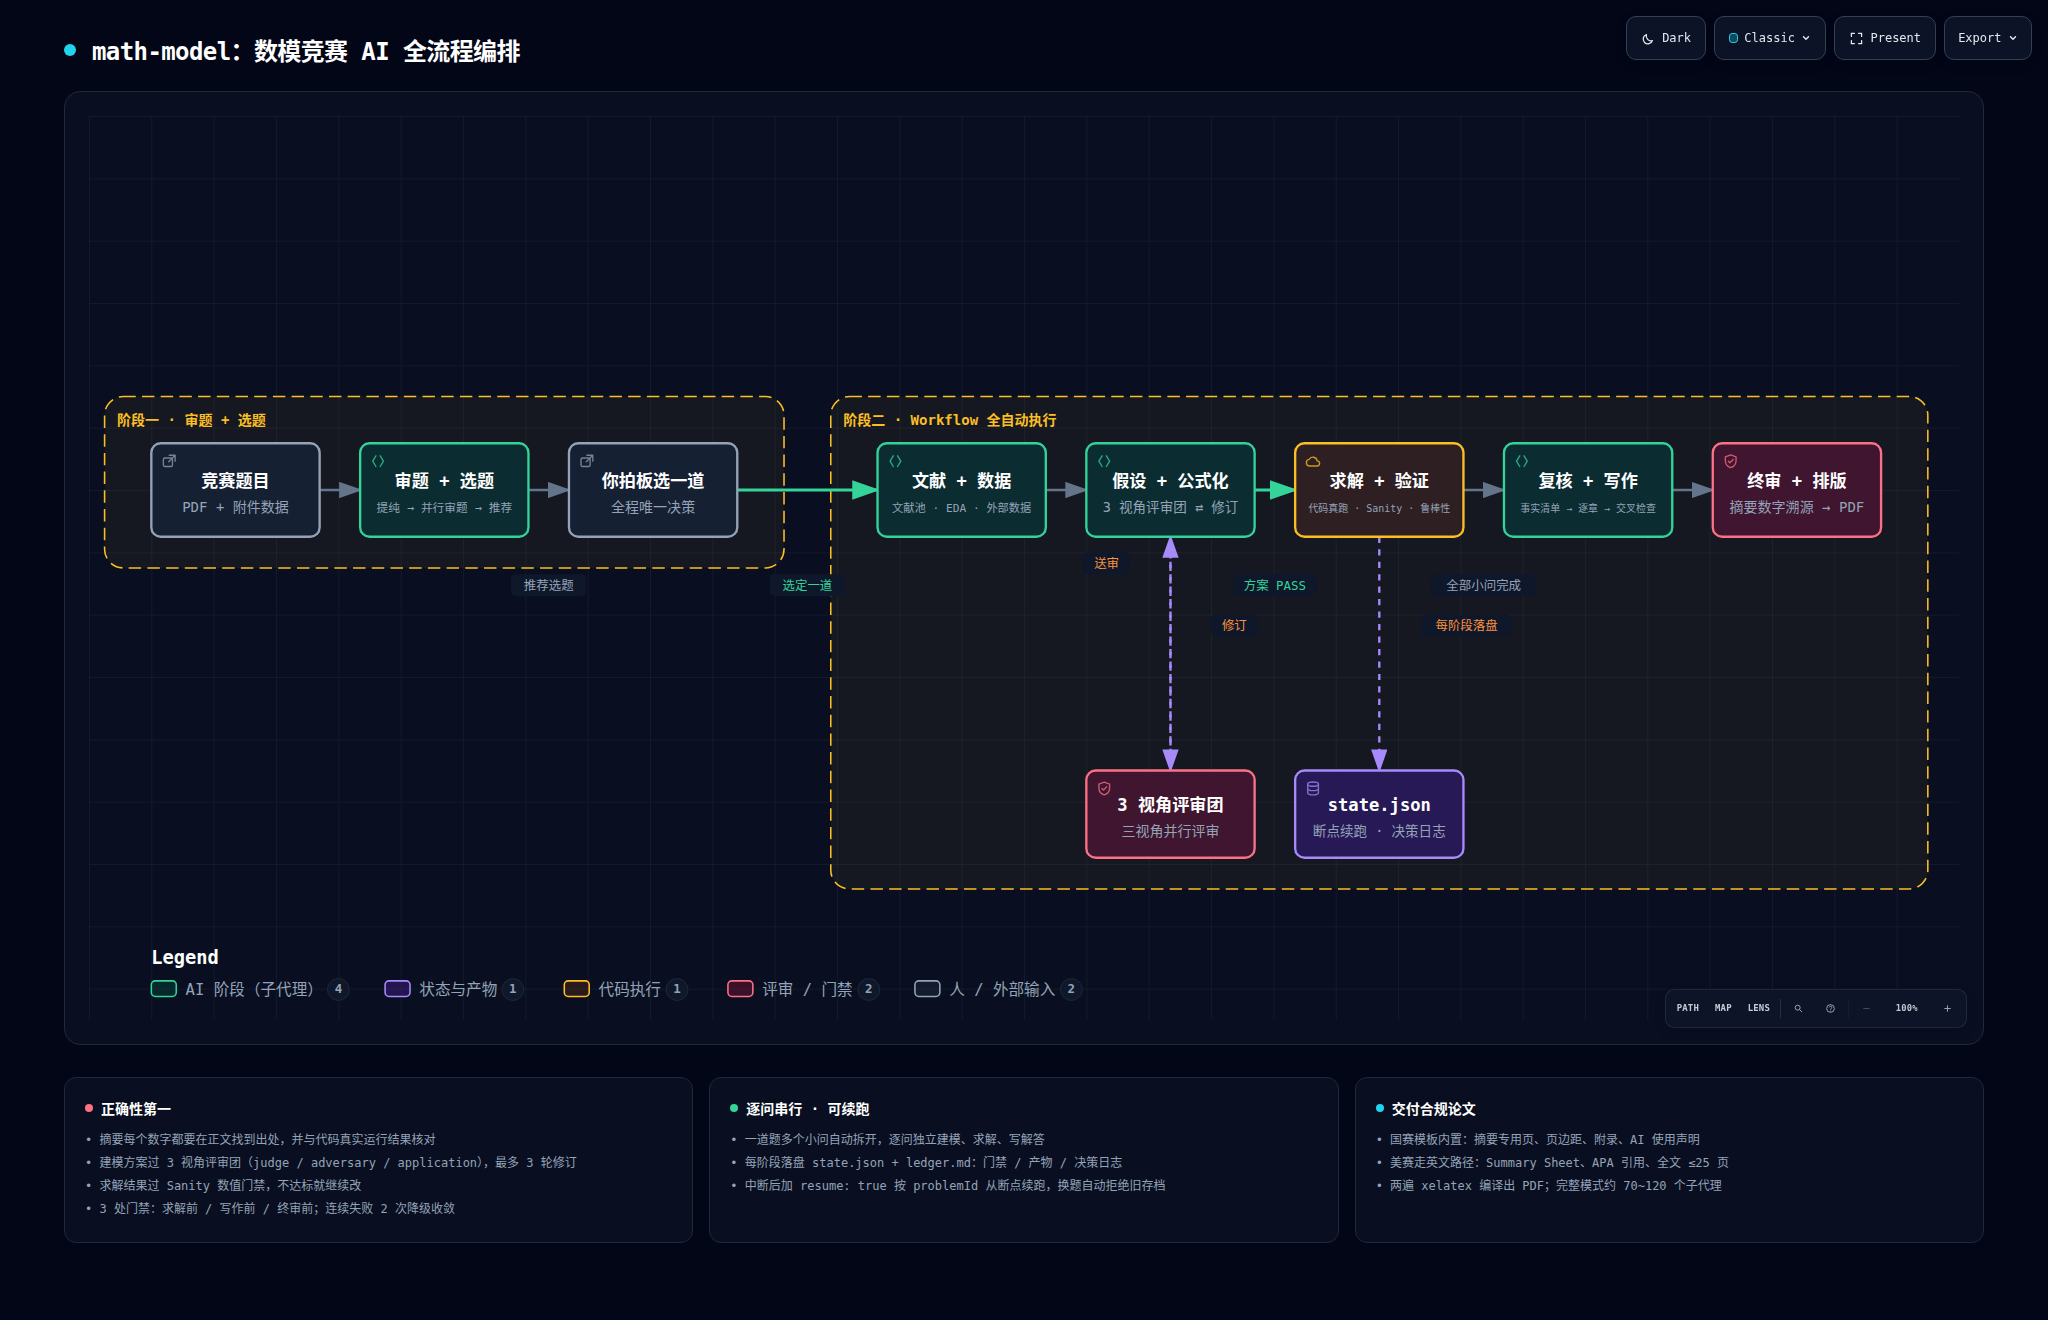
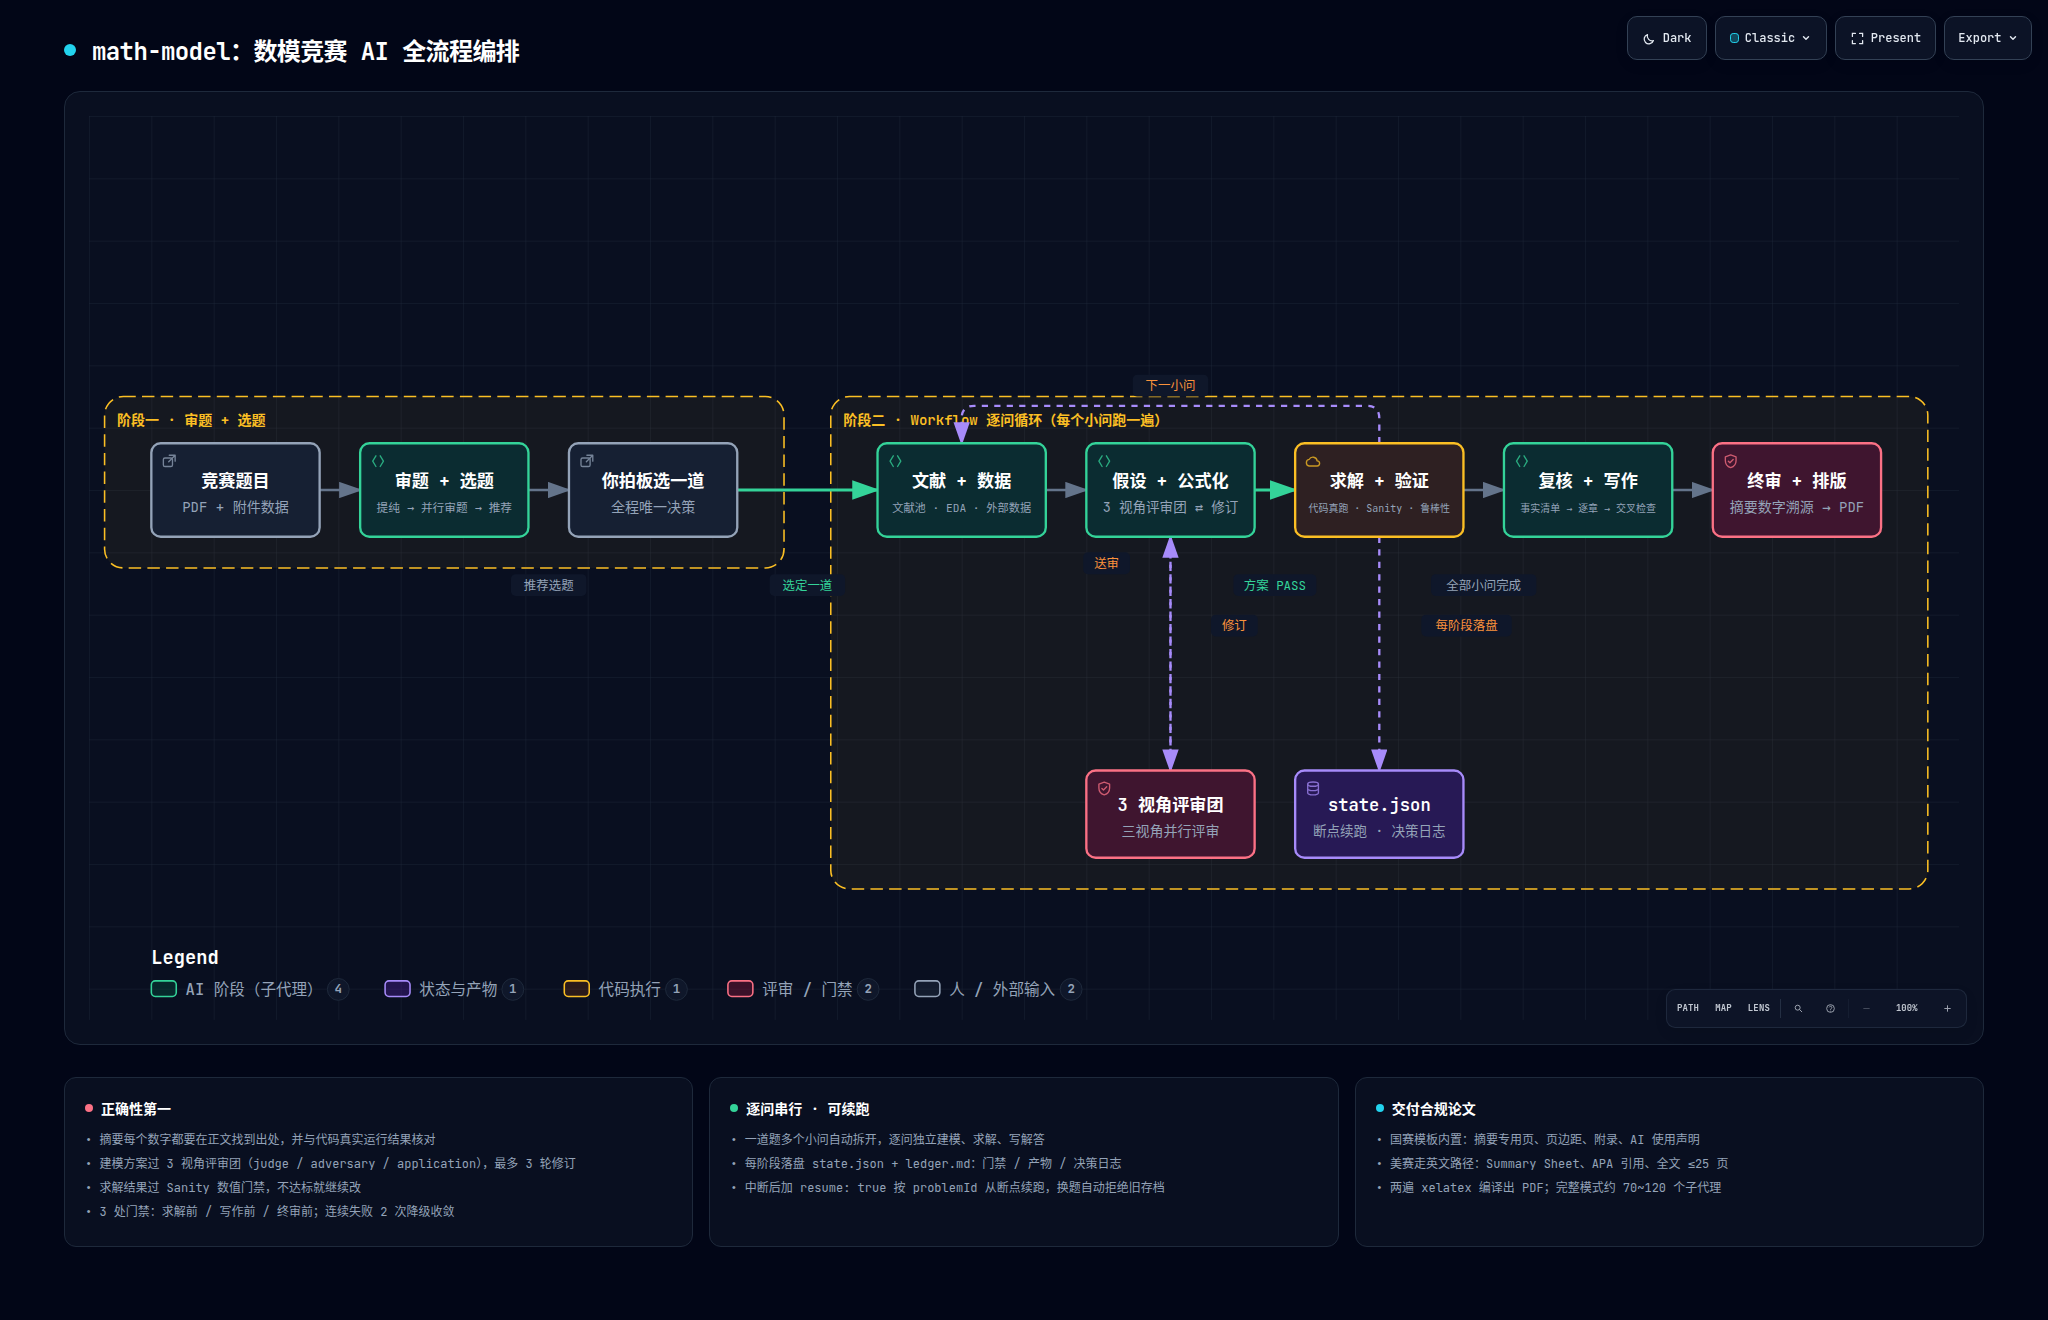
docs(workflow图): 完全权限下重跑 visual-check，刷新带逐问循环的标准截图(light/dark×1440/2048)+contact sheet+receipt；同步用户 README 术语小修

diff --git a/README.md b/README.md
@@ -19,12 +19,12 @@
 
 ## 它和"直接让 AI 做题"有什么不同
 
-直接询问是**单次、无状态生成**：把整道题一次性丢给模型，缺乏约束与校验。这套系统采用 **workflow（工作流）机制**——把任务拆成一组有依赖、有产物的串行环节，每个环节由独立子代理执行，仅注入该环节所需的上下文与规则。二者差异在机制层面：
+直接询问是**单次、无状态生成**：把整道题一次性丢给模型，缺乏约束与校验。这套系统采用 **workflow**——把任务拆成一组有依赖、有产物的串行环节，每个环节由独立子代理执行，仅注入该环节所需的上下文与规则。二者差异在机制层面：
 
 - **抑制 AI 幻觉**：单次长上下文生成时，模型倾向"补全"而非"求证"，易编造数值。workflow 下每个关键结果（模型参数、预测值等）必须来自真实执行的产物文件（`results.json` 等），子代理只能引用、不能臆造；且建模方案经多角色独立复核，编造无法通过校验。
 - **避免上下文污染**：单次对话中所有子任务共用同一上下文，后续推理易被前序内容（含无关文本）带偏（如跨小问结论混用）。workflow 按环节隔离上下文——每个子代理仅见当前小问、相关数据与本环节规则，环节间以落盘产物交接，阻断内容串扰。
 - **注意力机制更聚焦**：注意力随输入长度增加而稀释，长上下文会降低对关键信号的聚焦度。环节化后每次调用上下文短而相关，注意力集中在有效信号上，推理更可靠——这也是抑制幻觉与避免污染能成立的原因。
-- **可控、可追溯**：每环节落盘真实产物与决策记录（`state.json` / `ledger.md`），可审计、可对账；支持断点续跑，换题自动拒用旧存档；环节设合格线（门禁）与失败上限（降级/跳过），避免死循环；结果源自固定代码与真实数据，具备可复现性。
+- **可控、可追溯**：每环节落盘真实产物与决策记录文档（`state.json` / `ledger.md`），可审计、可对账；支持断点续跑，换题自动拒用旧存档；环节设合格线（门禁）与失败上限（降级/跳过），避免死循环；结果源自固定代码与真实数据，具备可复现性。
 
 ---
 
